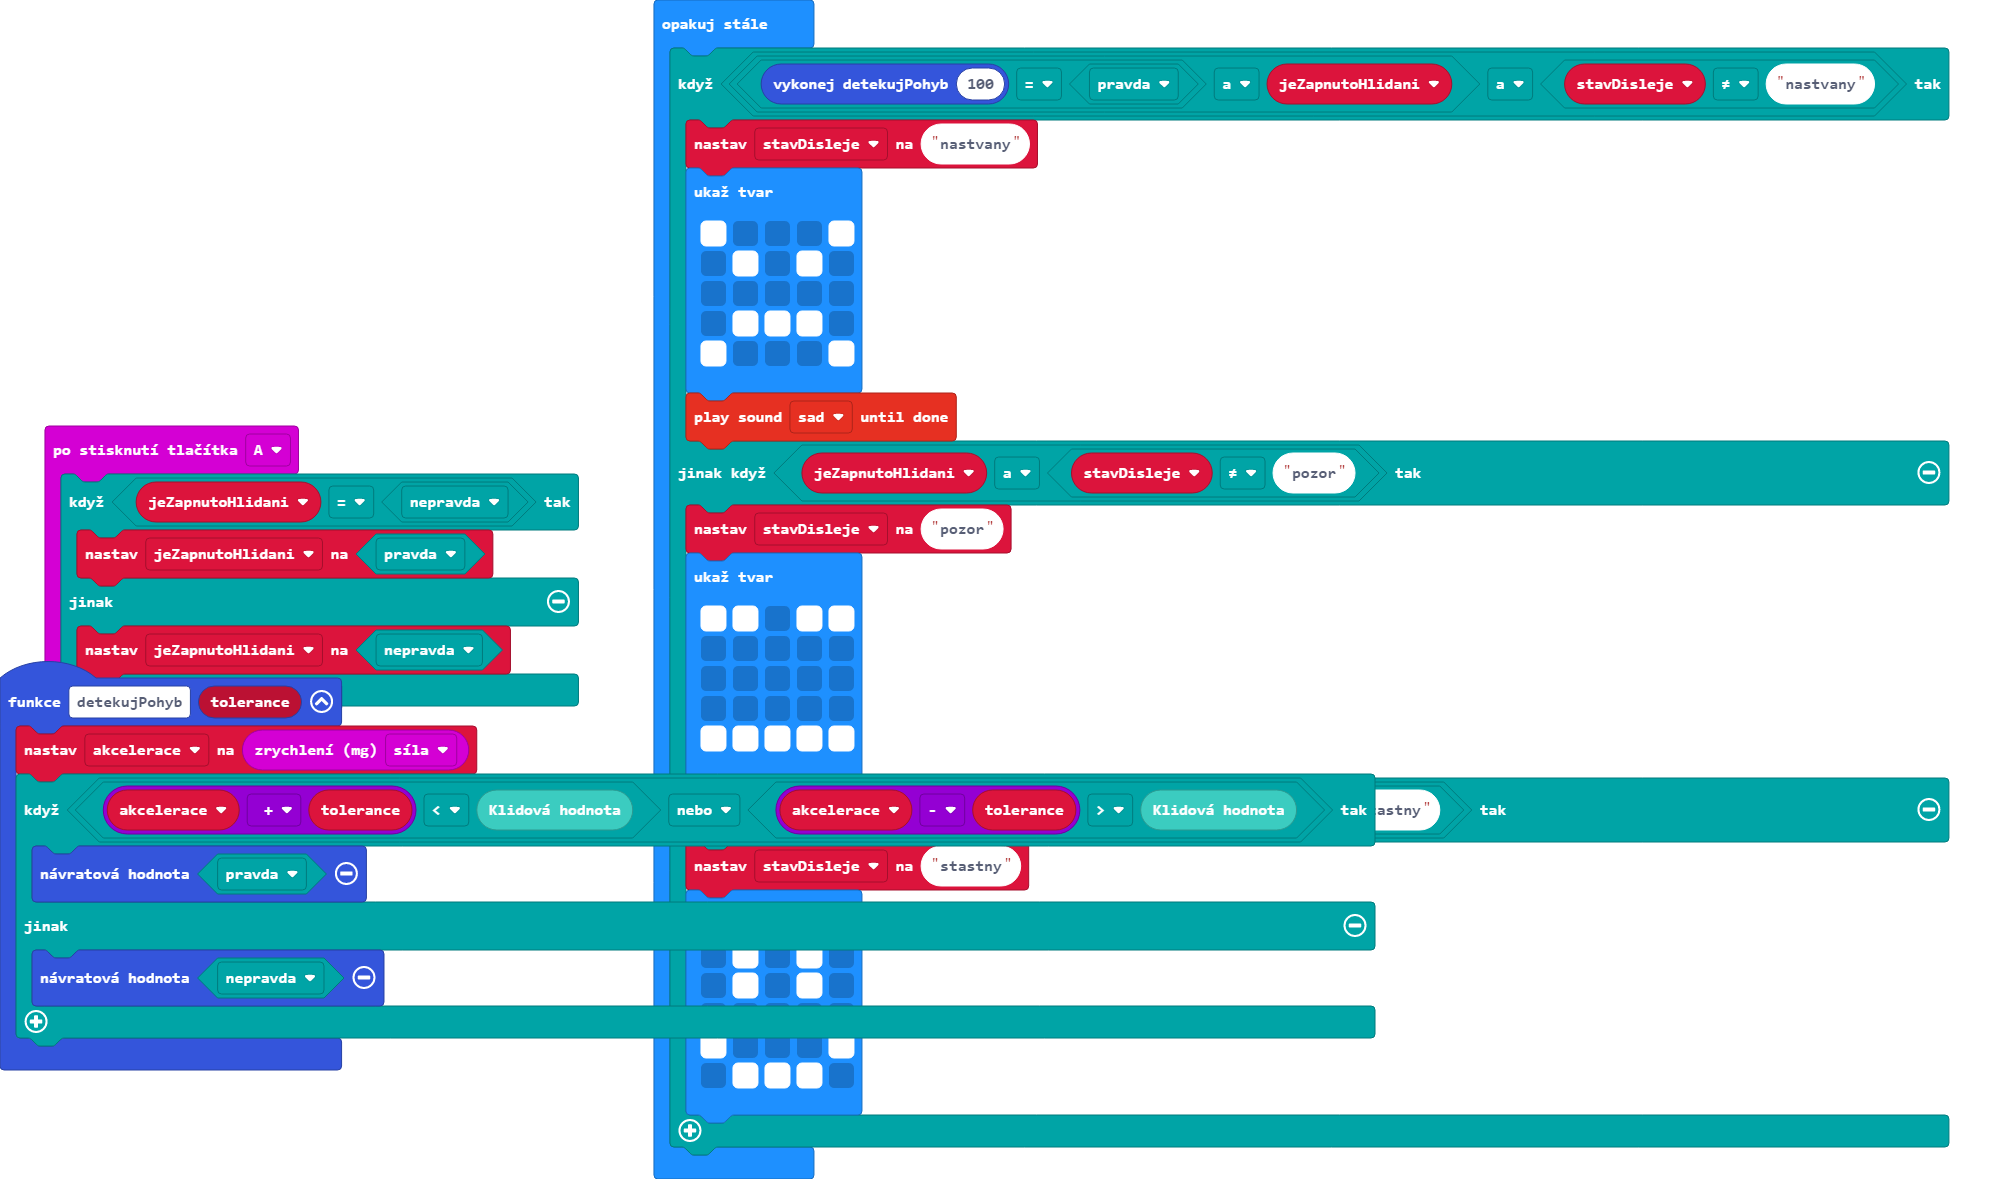
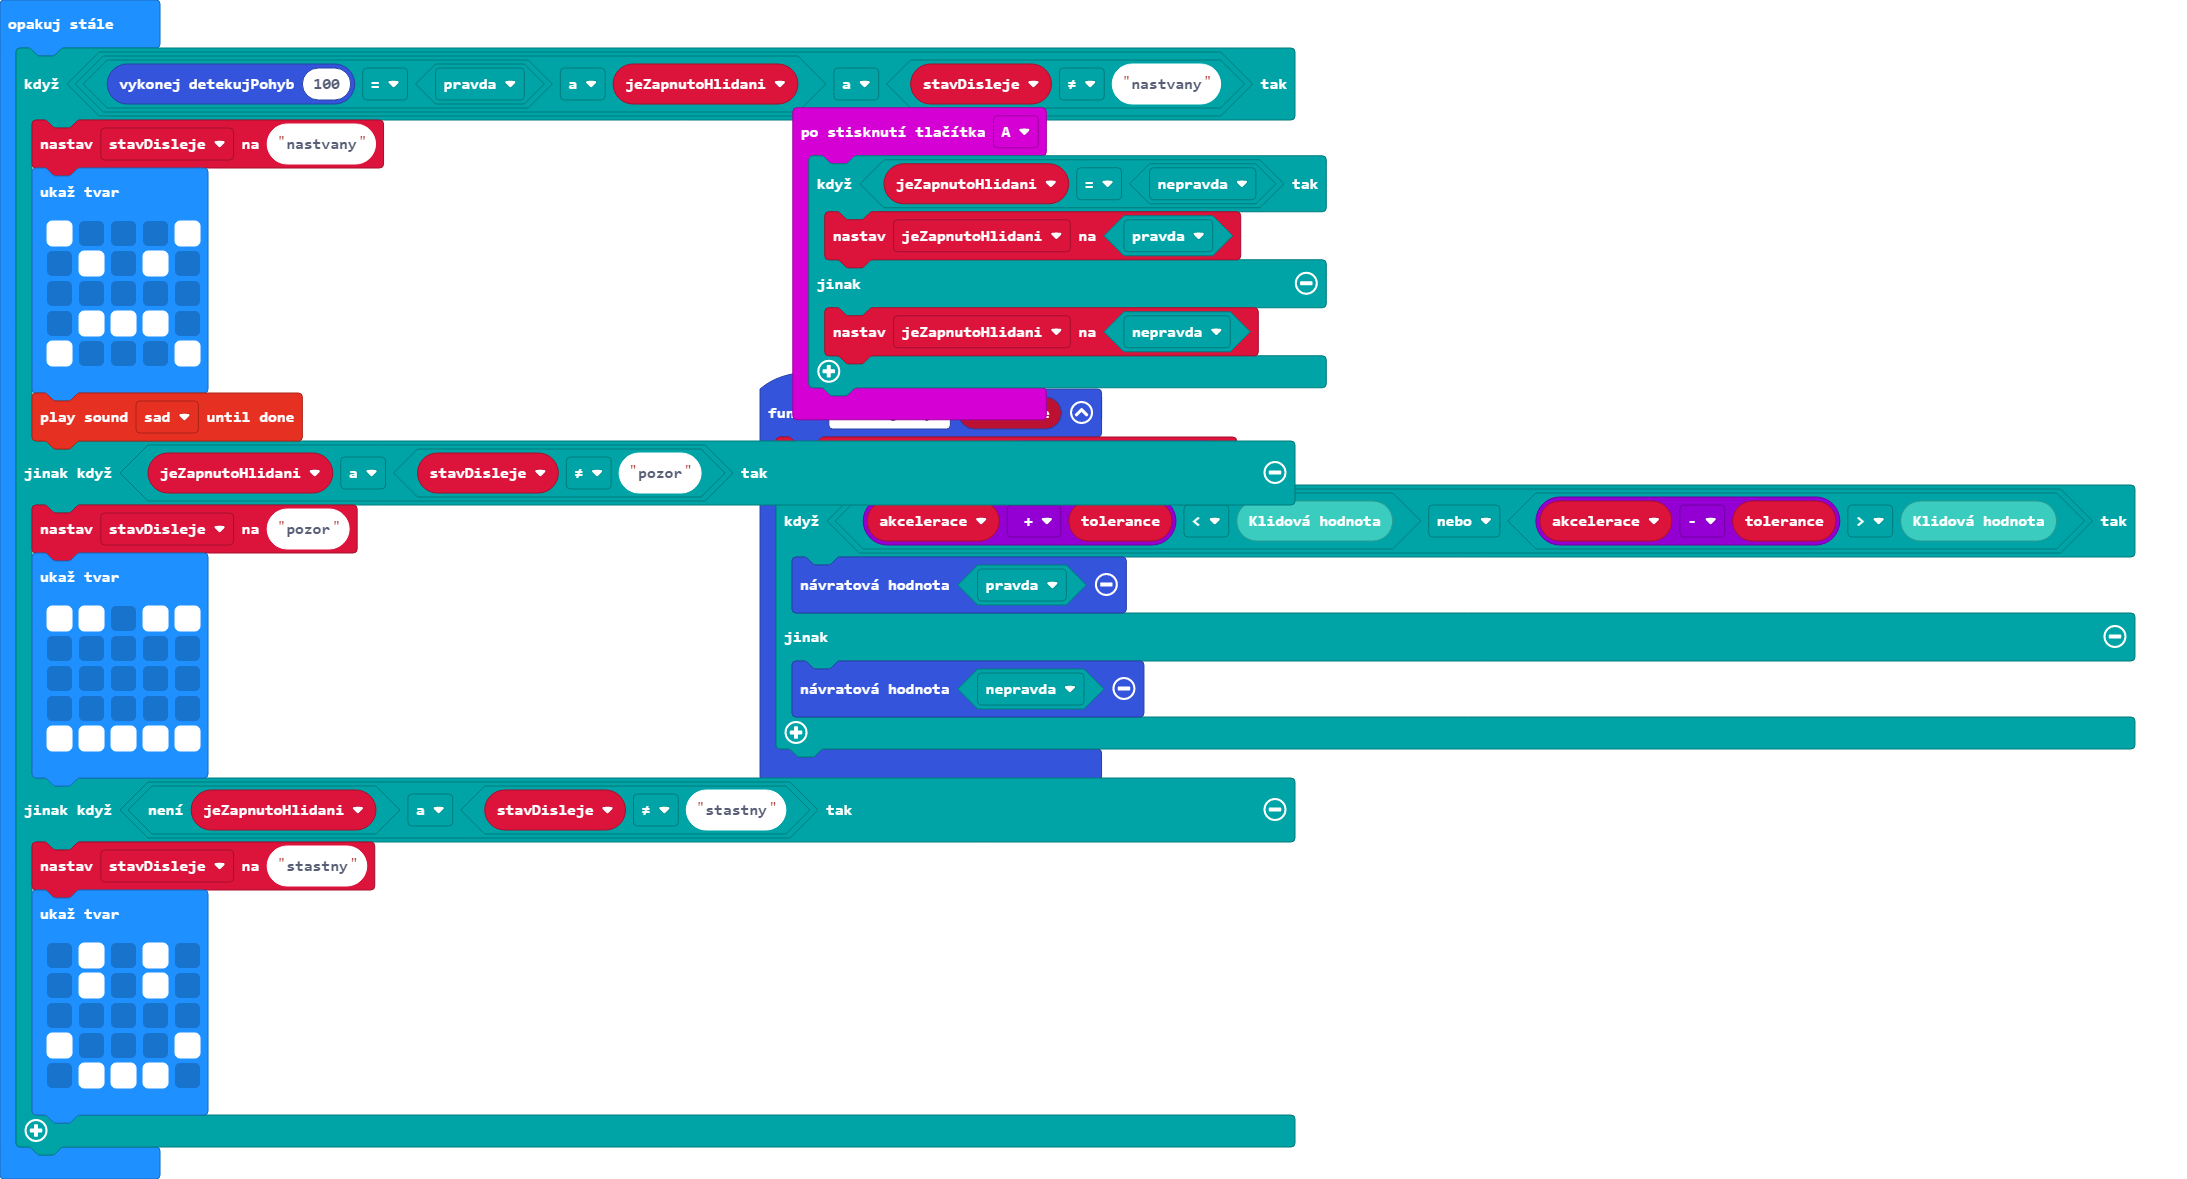
Aktualizovat main.blocks, main.ts, mikado.ts

diff --git a/main.ts b/main.ts
@@ -10,7 +10,7 @@ input.onButtonPressed(Button.A, function () {
 })
 function detekujPohyb (tolerance: number) {
     akcelerace = input.acceleration(Dimension.Strength)
-    if (akcelerace + tolerance < Mikado.klidovaHodnota() || akcelerace - tolerance > Mikado.klidovaHodnota()) {
+    if (akcelerace + tolerance < mikado.normalValue() || akcelerace - tolerance > mikado.normalValue()) {
         return true
     } else {
         return false

diff --git a/mikado.ts b/mikado.ts
@@ -1,12 +1,12 @@
 //% weight=100 color=#3bccc0 icon="\uf11b" block="Mikado"
-namespace Mikado {
+namespace mikado {
 
     /**
     * Vrátí klidovou hodnotu senzoru
     */
     //% block="Klidová hodnota"
 
-    export function klidovaHodnota(): number {
+    export function normalValue(): number {
         return 1023
     }
 
